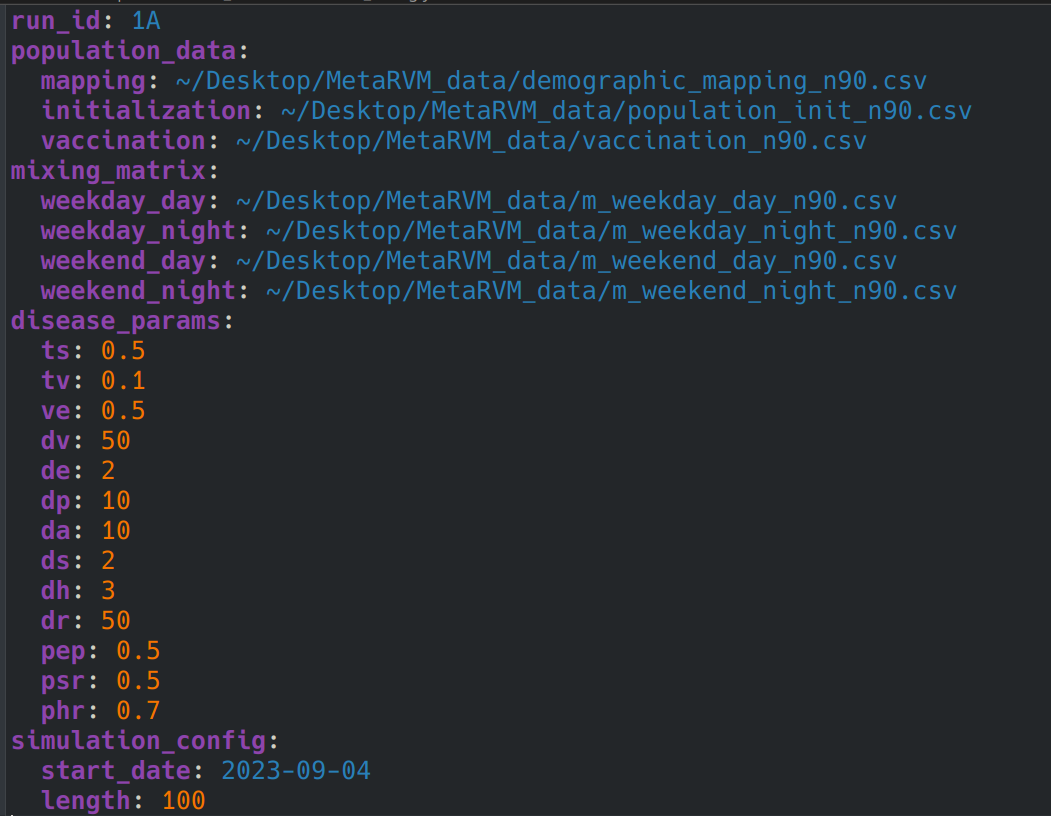
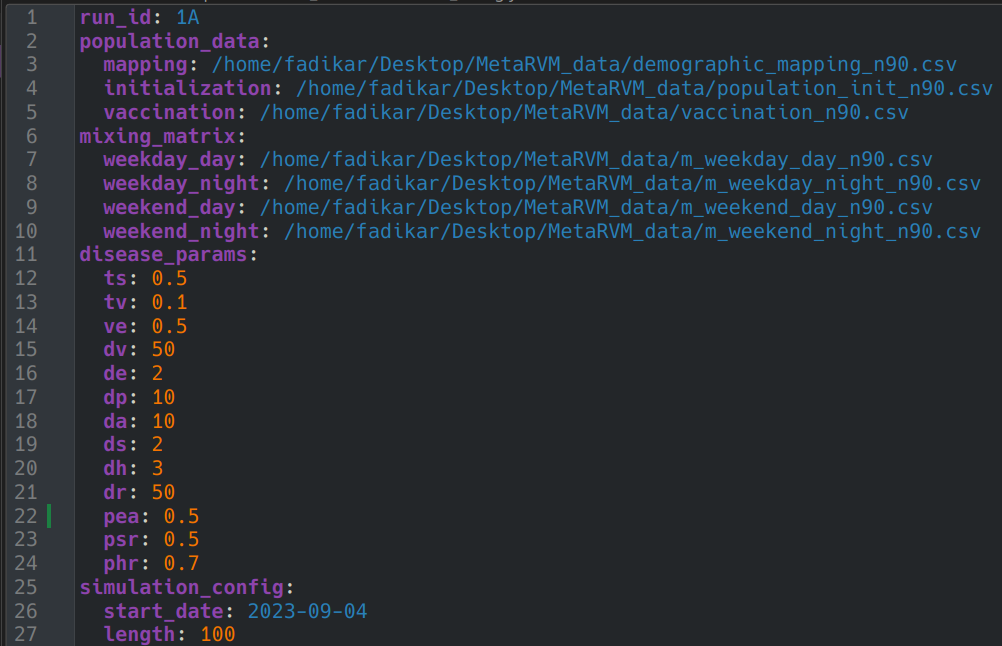
updated ui, readme, vignette, parameter names

Changed region(s): [[0.0, 0.0, 0.99, 1.0], [0.3094, 0.0, 0.5259, 0.031], [0.1547, 0.5882, 0.1856, 0.6811]]

diff --git a/README.md b/README.md
@@ -14,7 +14,7 @@ virus diseases.
 ## Model
 
 <figure>
-<img src="man/figures/model.png" alt="Model schematics" />
+<img src="man/figure/metaRVM.png" alt="Model schematics" />
 <figcaption aria-hidden="true">Model schematics</figcaption>
 </figure>
 
@@ -25,7 +25,7 @@ You can install the development version of MetaRVM from
 
 ``` r
 # install.packages("devtools")
-devtools::install_github("NSF-RESUME/MetaRVM", ref = "15-model-input-via-configuration-file")
+devtools::install_github("NSF-RESUME/MetaRVM")
 ```
 
 ## Example
@@ -69,12 +69,12 @@ pop_zones$S0 <- pop_zones$N - pop_zones$I0 - pop_zones$V0 - pop_zones$R0
 
 pop_zones
 #>      N   S0 I0 V0  R0
-#> 1 1117  922 42  8 145
-#> 2 1149  951 30  7 161
-#> 3 1464 1322 38  1 103
-#> 4 1454 1234 32 10 178
-#> 5 1229 1040 26  4 159
-#> 6 1226  996 88  5 137
+#> 1 1409 1177 40  5 187
+#> 2 1435 1298 16  9 112
+#> 3 1430 1297 18  1 114
+#> 4 1216 1046 42  4 124
+#> 5 1463 1289 55  3 116
+#> 6 1428 1204 82  6 136
 ```
 
 #### Vaccination
@@ -95,14 +95,14 @@ colnames(vac_zones) <- c("t", paste0("v", 1:N_pop))
 
 vac_zones
 #>       t v1 v2 v3 v4 v5 v6
-#> [1,]  0  8  7  1 10  4  5
-#> [2,] 14  7  5 10  2  3  7
-#> [3,] 28  1  4  3  9  5  2
-#> [4,] 42  9  2  1  3  3  8
-#> [5,] 56  4  8  6  3  4 10
-#> [6,] 70  2  8  9  9  6  3
-#> [7,] 84  8  5  6 10  7  3
-#> [8,] 98  5  7  9  5  7  6
+#> [1,]  0  5  9  1  4  3  6
+#> [2,] 14  8  5  3  2  2  1
+#> [3,] 28  9 10  7  5  1  9
+#> [4,] 42  6 10  1  4  8  9
+#> [5,] 56  6  4  6  5  8  5
+#> [6,] 70 10  1  2  6  6  7
+#> [7,] 84  5  3  3  2  2 10
+#> [8,] 98  3  7  8  9  3  7
 ```
 
 ``` r
@@ -132,8 +132,8 @@ Then run the simulation:
 
 ``` r
 out <- meta_sim(N_pop = N_pop,
-                beta_i = 0.7,
-                beta_v = 0.2,
+                ts = 0.7,
+                tv = 0.2,
                 S0 = pop_zones$S0,
                 I0 = pop_zones$I0,
                 P0 = pop_zones$N,
@@ -146,34 +146,35 @@ out <- meta_sim(N_pop = N_pop,
                 delta_t = 0.5,
                 tvac = vac_zones[, 1],
                 vac_mat = as.matrix(vac_zones[, 2:7]),
-                VtoS = 0.02,
-                 EtoIpresymp = 0.33,
-                 etopa = 0.5,
-                 pretoIsymp = 0.5,
-                 IasymptoR = 0.2,
-                 IsymptoRH = 0.5,
-                 istohr = 0.5,
-                 HtoRD = 0.33,
-                 htor = 0.5,
-                 RtoS = 0.02,
-                 vac_eff = 0.5,
-                 nsteps = 100,
-                 is.stoch = 0,
-                 seed = NULL)
+                dv = 50,
+                de = 3,
+                pea = 0.5,
+                dp = 2,
+                da = 5,
+                ds = 2,
+                psr = 0.5,
+                dh = 3,
+                phr = 2,
+                dr = 50,
+                ve = 0.5,
+                nsteps = 100,
+                is.stoch = 0,
+                seed = NULL)
 #> Loading required namespace: pkgbuild
 #> Generating model in c
-#> ℹ Re-compiling odin5a20de50 (debug build)
+#> ℹ Re-compiling odin0b127e1d (debug build)
 #> ── R CMD INSTALL ───────────────────────────────────────────────────────────────
-#> * installing *source* package ‘odin5a20de50’ ...
+#> * installing *source* package ‘odin0b127e1d’ ...
 #> ** using staged installation
 #> ** libs
-#> gcc -I"/usr/share/R/include" -DNDEBUG      -fpic  -g -O2 -ffile-prefix-map=/build/r-base-4A2Reg/r-base-4.1.2=. -fstack-protector-strong -Wformat -Werror=format-security -Wdate-time -D_FORTIFY_SOURCE=2 -g  -UNDEBUG -Wall -pedantic -g -O0 -c odin.c -o odin.o
-#> gcc -I"/usr/share/R/include" -DNDEBUG      -fpic  -g -O2 -ffile-prefix-map=/build/r-base-4A2Reg/r-base-4.1.2=. -fstack-protector-strong -Wformat -Werror=format-security -Wdate-time -D_FORTIFY_SOURCE=2 -g  -UNDEBUG -Wall -pedantic -g -O0 -c registration.c -o registration.o
-#> gcc -shared -L/usr/lib/R/lib -Wl,-Bsymbolic-functions -flto=auto -ffat-lto-objects -flto=auto -Wl,-z,relro -o odin5a20de50.so odin.o registration.o -L/usr/lib/R/lib -lR
-#> installing to /tmp/RtmpYAEgGp/devtools_install_133b015e6799bf/00LOCK-file133b01a67a1d7/00new/odin5a20de50/libs
+#> using C compiler: ‘gcc (Ubuntu 13.3.0-6ubuntu2~24.04) 13.3.0’
+#> gcc -I"/usr/share/R/include" -DNDEBUG       -fpic  -g -O2 -fno-omit-frame-pointer -mno-omit-leaf-frame-pointer -ffile-prefix-map=/build/r-base-FPSnzf/r-base-4.3.3=. -fstack-protector-strong -fstack-clash-protection -Wformat -Werror=format-security -fcf-protection -fdebug-prefix-map=/build/r-base-FPSnzf/r-base-4.3.3=/usr/src/r-base-4.3.3-2build2 -Wdate-time -D_FORTIFY_SOURCE=3  -UNDEBUG -Wall -pedantic -g -O0 -c odin.c -o odin.o
+#> gcc -I"/usr/share/R/include" -DNDEBUG       -fpic  -g -O2 -fno-omit-frame-pointer -mno-omit-leaf-frame-pointer -ffile-prefix-map=/build/r-base-FPSnzf/r-base-4.3.3=. -fstack-protector-strong -fstack-clash-protection -Wformat -Werror=format-security -fcf-protection -fdebug-prefix-map=/build/r-base-FPSnzf/r-base-4.3.3=/usr/src/r-base-4.3.3-2build2 -Wdate-time -D_FORTIFY_SOURCE=3  -UNDEBUG -Wall -pedantic -g -O0 -c registration.c -o registration.o
+#> gcc -shared -L/usr/lib/R/lib -Wl,-Bsymbolic-functions -flto=auto -ffat-lto-objects -Wl,-z,relro -o odin0b127e1d.so odin.o registration.o -L/usr/lib/R/lib -lR
+#> installing to /tmp/RtmpqgbB44/devtools_install_69e7d2191757f/00LOCK-file69e7d3d4276e0/00new/odin0b127e1d/libs
 #> ** checking absolute paths in shared objects and dynamic libraries
-#> * DONE (odin5a20de50)
-#> ℹ Loading odin5a20de50
+#> * DONE (odin0b127e1d)
+#> ℹ Loading odin0b127e1d
 ```
 
 There are some utility functions to extract a subset of disease states
